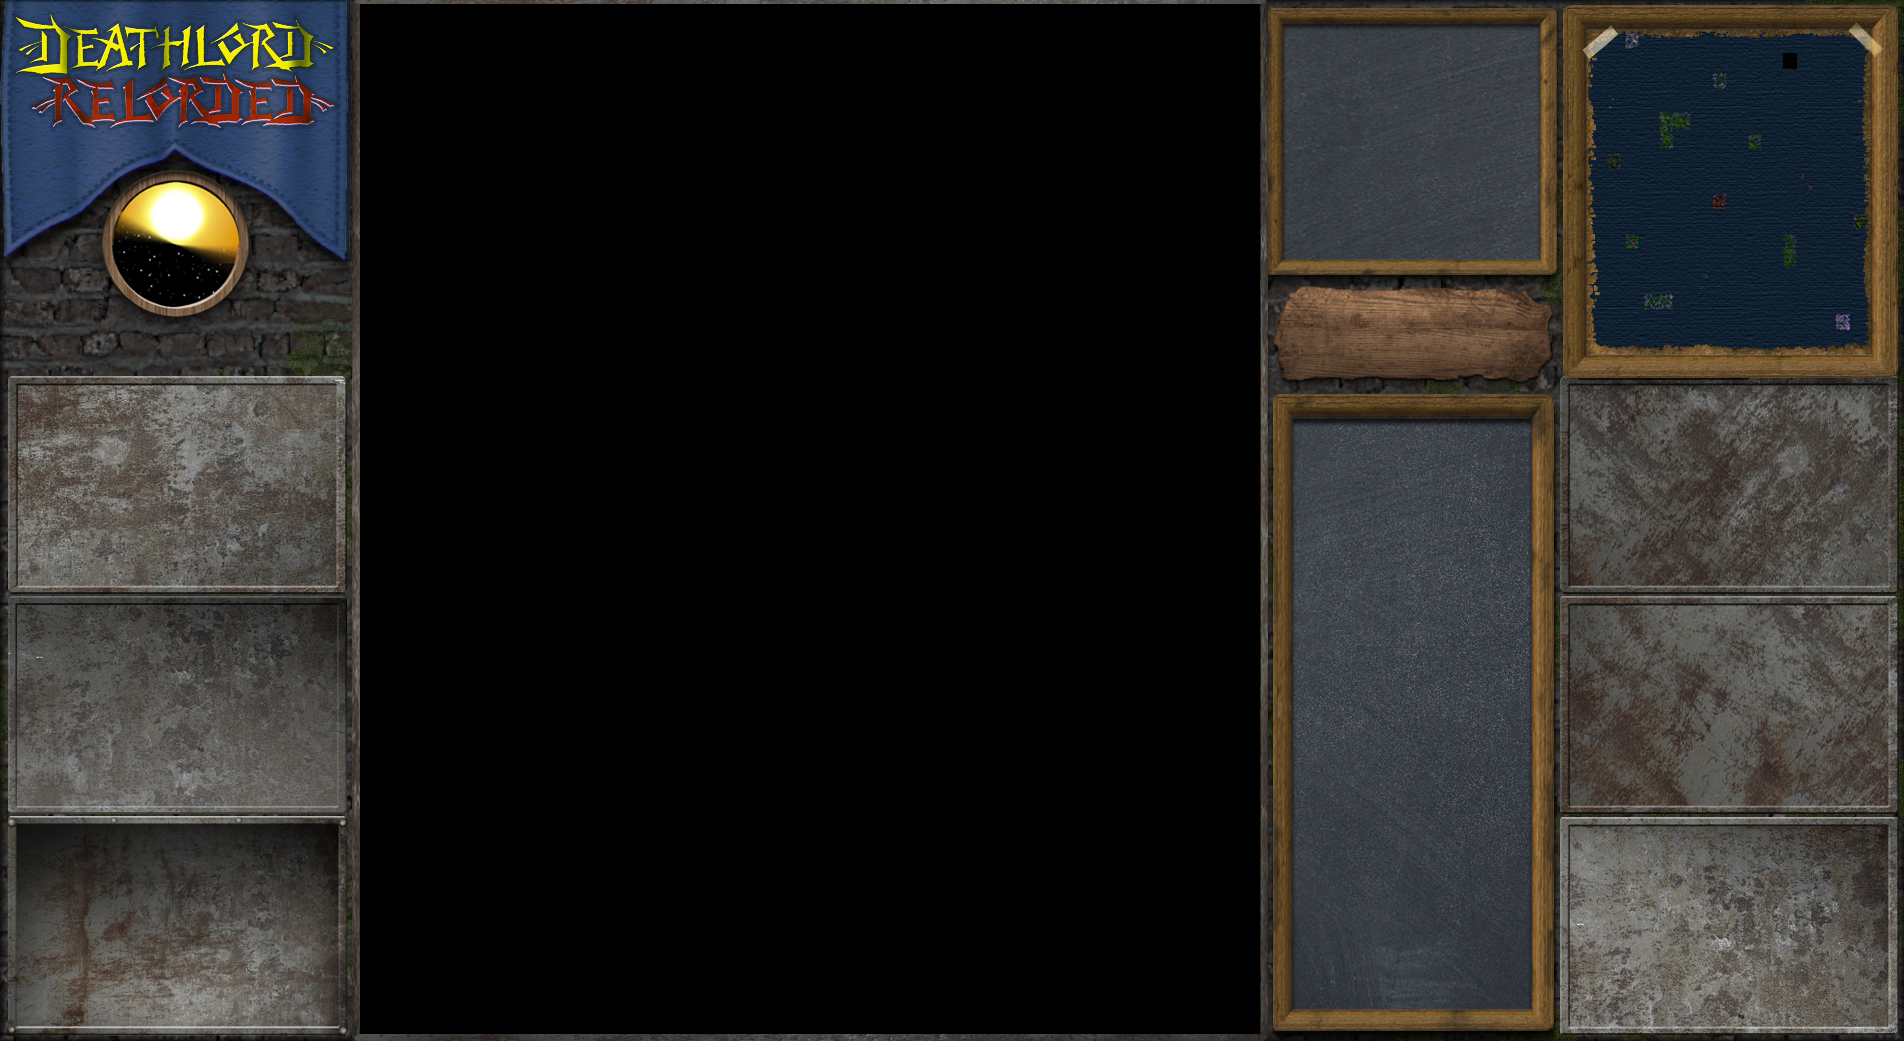
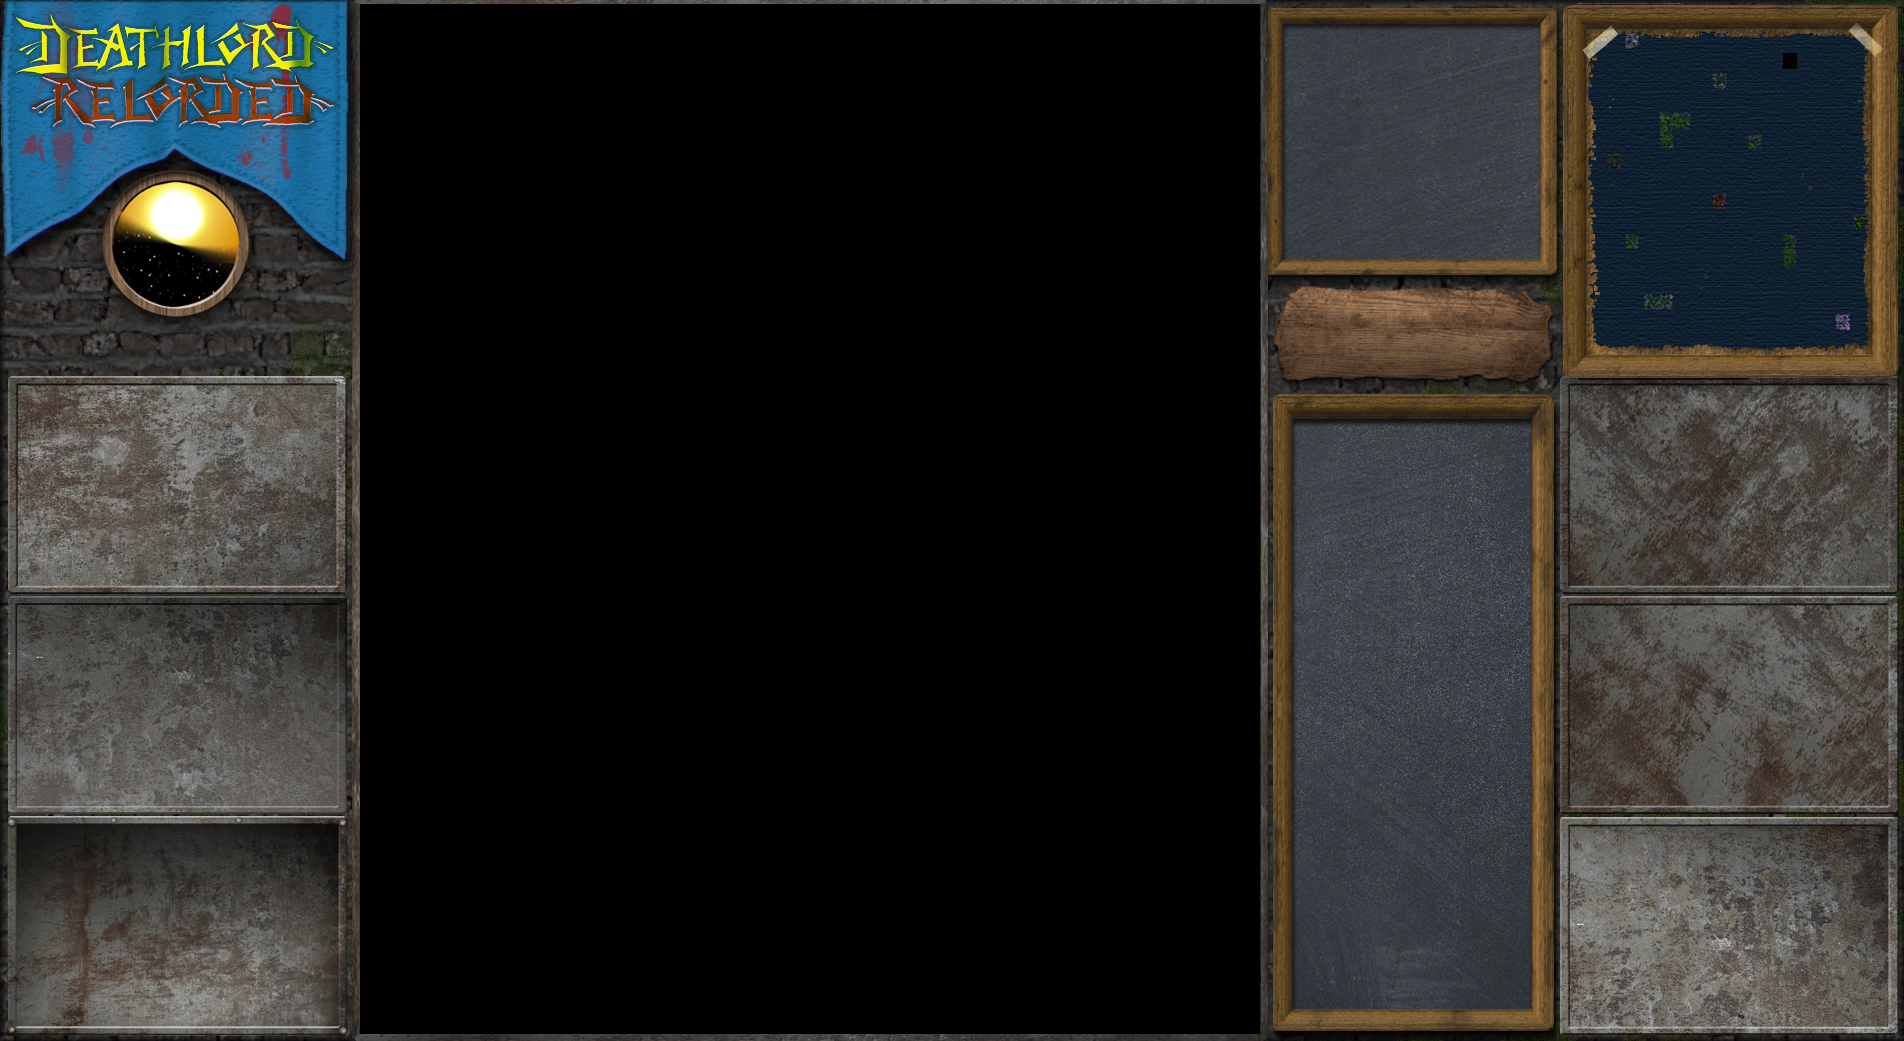
Daytime hand, clock and moon finished

Changed region(s): [[0.0, 0.0, 0.1859, 0.2459]]

diff --git a/Deathlord-Relorded/Daytime.cpp b/Deathlord-Relorded/Daytime.cpp
@@ -30,7 +30,12 @@ void Daytime::Render(SimpleMath::Rectangle r, DirectX::SpriteBatch* spriteBatch)
 	}
 	UINT8 _minute = MemGetMainPtr(MEM_DAY_MINUTE)[0];	// In BCD format!!!
 	UINT8 _minTen = _minute >> 4;
-	UINT8 _minuteDigit = _minute & 0b1111;
+	UINT8 _minDigit = _minute & 0b1111;
+
+	// The whole chunk below is to display the time digits
+	// This is now obsoleted by the 24-hour clock
+#if 0
+
 	RECT digitRect = RECT();
 	digitRect.top = DAYTIME_SPRITE_HEIGHT;	// digits are the second line (except for separator)
 	digitRect.bottom = digitRect.top + DAYTIME_SPRITE_HEIGHT;
@@ -123,6 +128,7 @@ void Daytime::Render(SimpleMath::Rectangle r, DirectX::SpriteBatch* spriteBatch)
 	sunDestRect.top = sunDestRect.bottom - (sunSpriteRect.bottom - sunSpriteRect.top) * _daytimeScale;
 	spriteBatch->Draw(m_resourceDescriptors->GetGpuHandle((int)TextureDescriptors::DayTimeSpriteSheet), mmTexSize,
 		sunDestRect, &sunSpriteRect, Colors::White, 0.f, XMFLOAT2());
+#endif
 
 	// Draw phase of moon
 	// There are 7 phases, each spanning 4 days from 0x00 to 0x1B
@@ -133,12 +139,28 @@ void Daytime::Render(SimpleMath::Rectangle r, DirectX::SpriteBatch* spriteBatch)
 	moonSpriteRect.top = 0;
 	moonSpriteRect.bottom = moonSpriteRect.top + DAYTIME_SPRITE_HEIGHT;
 	RECT moonDestRect = RECT();
-	moonDestRect.left = r.x + 320;
+	moonDestRect.left = r.x + 162;
 	moonDestRect.right = moonDestRect.left + DAYTIME_SPRITE_WIDTH * _daytimeScale;
-	moonDestRect.top = r.y + 155;
+	moonDestRect.top = r.y + 260;
 	moonDestRect.bottom = moonDestRect.top + DAYTIME_SPRITE_HEIGHT * _daytimeScale;
 	spriteBatch->Draw(m_resourceDescriptors->GetGpuHandle((int)TextureDescriptors::DayTimeSpriteSheet), mmTexSize,
 		moonDestRect, &moonSpriteRect, Colors::White, 0.f, XMFLOAT2());
+
+	// Draw the clock hand. It is originally pointing at 0:00 (down)
+	UINT16 dayMinutes = (_hour * 60) + (_minTen * 10) + _minDigit;
+	OutputDebugString(to_wstring(dayMinutes).c_str());
+	OutputDebugString(L"\n");
+	RECT handsSourceRect = RECT();
+	handsSourceRect.left = DAYTIME_HAND_TOP_X;
+	handsSourceRect.top = DAYTIME_HAND_TOP_Y;
+	handsSourceRect.right = DAYTIME_HAND_TOP_X + DAYTIME_HAND_WIDTH;
+	handsSourceRect.bottom = DAYTIME_HAND_TOP_Y + DAYTIME_HAND_HEIGHT;
+	XMFLOAT2 clockCenter = XMFLOAT2(r.x + 177, r.y + 244);
+	// Rotation is in radians so it's 2*pi*ratio
+	spriteBatch->Draw(m_resourceDescriptors->GetGpuHandle((int)TextureDescriptors::DayTimeSpriteSheet), mmTexSize,
+		clockCenter, &handsSourceRect, Colors::White, 3.141593 * 2 * dayMinutes / 1440,
+		XMFLOAT2(DAYTIME_HAND_ORIGIN_X, DAYTIME_HAND_ORIGIN_Y));
+
 }
 
 #pragma region D3D stuff

diff --git a/Deathlord-Relorded/Daytime.h b/Deathlord-Relorded/Daytime.h
@@ -12,7 +12,12 @@ constexpr UINT16 MEM_DAY_OF_MONTH = 0xFC02;
 constexpr UINT8 DAYTIME_DAYS_PER_MOONPHASE = 4;
 constexpr UINT8 DAYTIME_SPRITE_WIDTH = 28;
 constexpr UINT8 DAYTIME_SPRITE_HEIGHT = 32;
-
+constexpr UINT8 DAYTIME_HAND_TOP_X = 0;
+constexpr UINT8 DAYTIME_HAND_TOP_Y = 64;
+constexpr UINT8 DAYTIME_HAND_WIDTH = 28;
+constexpr UINT8 DAYTIME_HAND_HEIGHT = 75;
+constexpr UINT8 DAYTIME_HAND_ORIGIN_X = 14;	// Relative origin to rotate the hand around
+constexpr UINT8 DAYTIME_HAND_ORIGIN_Y = 16;
 
 enum class MoonPhases	// based on day of month
 {
